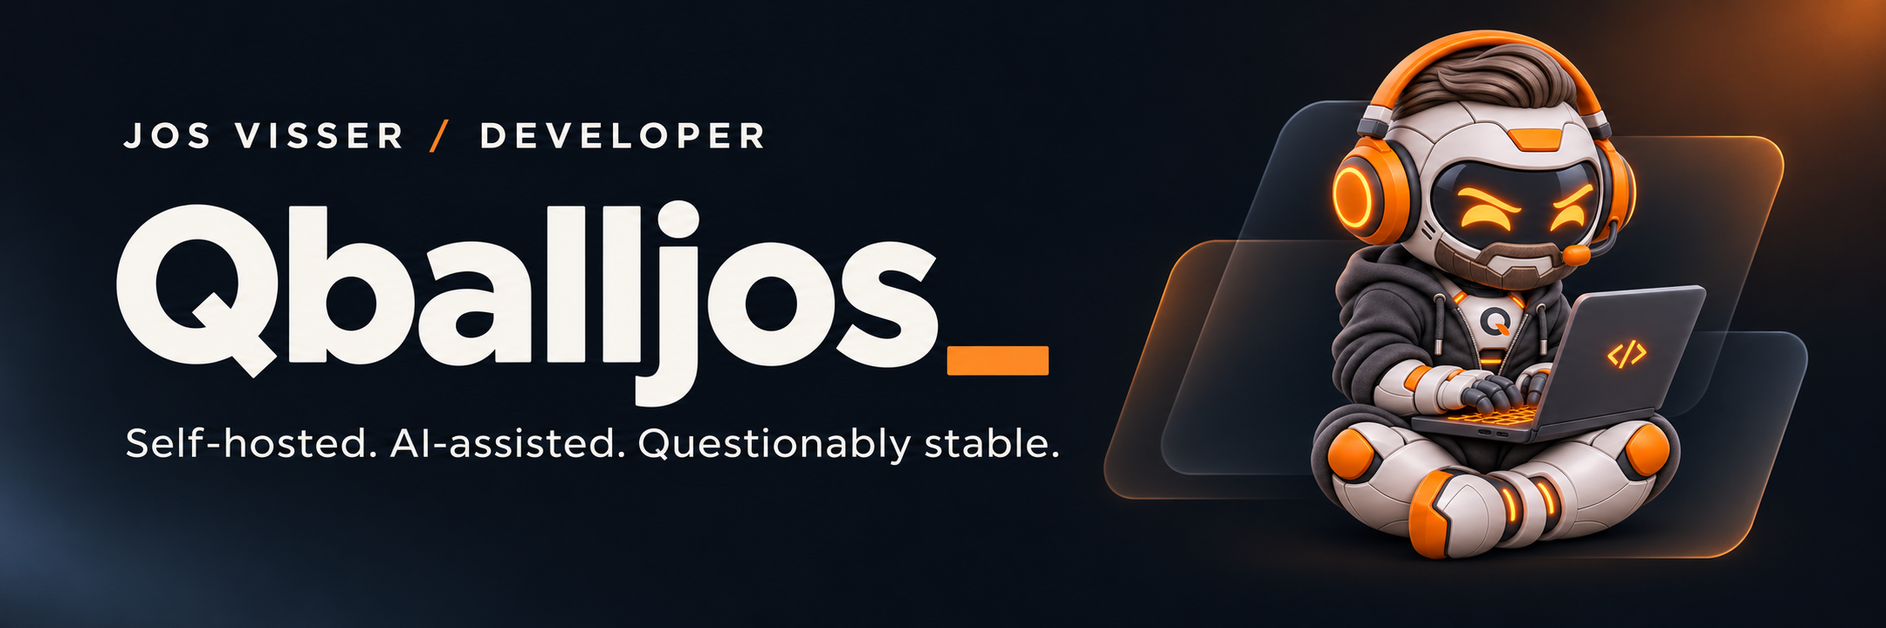
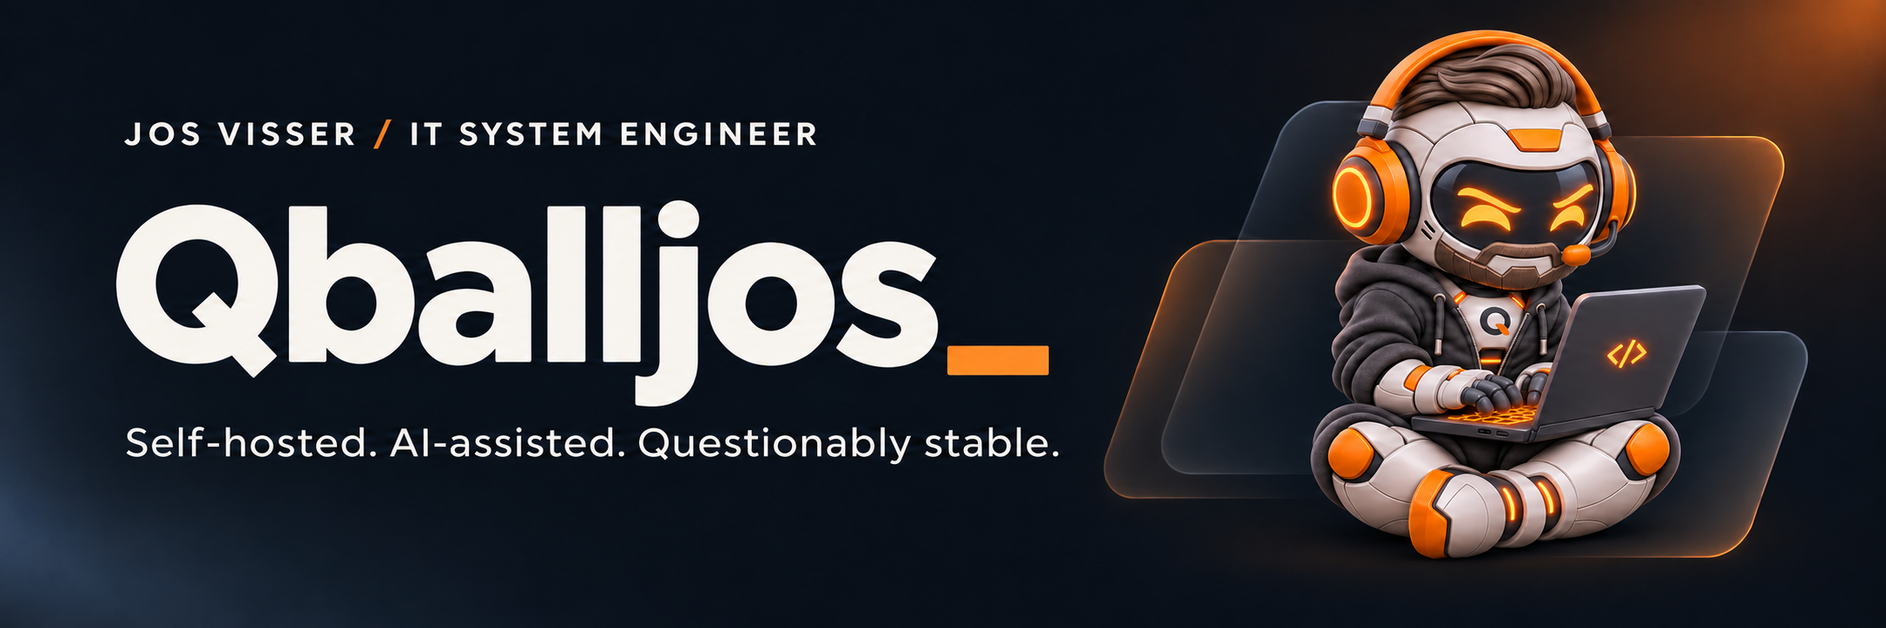
fix: identify Jos as IT System Engineer and hobby maker

diff --git a/cloudflare-pages/qballjos.html b/cloudflare-pages/qballjos.html
@@ -1,5 +1,5 @@
 <!doctype html>
-<html lang="nl"><head><meta charset="utf-8"><meta name="viewport" content="width=device-width,initial-scale=1"><meta name="theme-color" content="#0d1721"><meta name="description" content="Qballjos brand kit: mascot, logo's, kleuren en developer assets."><title>Qballjos — Brand Kit | Jos Visser ICT</title><link rel="icon" href="/assets/qballjos-icon.svg" type="image/svg+xml">
+<html lang="nl"><head><meta charset="utf-8"><meta name="viewport" content="width=device-width,initial-scale=1"><meta name="theme-color" content="#0d1721"><meta name="description" content="Qballjos brand kit: mascot, logo's, kleuren en bestanden voor mijn hobbyprojecten."><title>Qballjos — Brand Kit | Jos Visser ICT</title><link rel="icon" href="/assets/qballjos-icon.svg" type="image/svg+xml">
 <style>
 :root{--orange:#ea8b39;--bright:#ff831b;--dark:#0d1721;--slate:#344453;--white:#f5f5f5;--line:#718399;--panel:#111d2a}*{box-sizing:border-box}html{scroll-behavior:smooth}body{margin:0;color:var(--white);background:radial-gradient(ellipse at 72% 10%,#263849 0%,transparent 37%),linear-gradient(135deg,#0d1924,#0b141d 70%);font:15px/1.45 system-ui,-apple-system,Segoe UI,sans-serif}a{color:inherit}a:focus-visible,button:focus-visible{outline:3px solid #ff9c45;outline-offset:3px}.site-header{border-bottom:1px solid #526173;background:#0a131ddf}.nav-inner{max-width:1600px;margin:auto;min-height:65px;padding:10px 24px;display:flex;align-items:center;gap:22px;justify-content:space-between}.brand{display:flex;align-items:center;gap:15px;text-decoration:none;font-size:21px;font-weight:800;white-space:nowrap}.slashes{color:var(--bright);font-size:39px;font-weight:1000;letter-spacing:-12px;padding-right:12px;transform:skew(-12deg)}.brand small{font-size:17px;font-weight:450;border-left:1px solid #a3adba;padding-left:18px}.nav{display:flex;align-items:center;gap:clamp(10px,2vw,32px);flex-wrap:wrap}.nav a{text-decoration:none}.nav a:hover,.nav .active{color:#ff9a38}.nav .active{border:1px solid var(--bright);padding:5px 14px;border-radius:22px;background:#ff831b20}.repo{background:var(--bright);padding:9px 15px;border-radius:9px;text-decoration:none;font-weight:750;white-space:nowrap}.shell{max-width:1600px;margin:auto;padding:18px 22px 26px}.hero{min-height:225px;display:grid;grid-template-columns:minmax(0,1.65fr) minmax(300px,.95fr);gap:16px;align-items:center;margin-bottom:18px}.hero-left{display:flex;align-items:center;gap:clamp(15px,3vw,45px);min-width:0;position:relative}.hero-left:before{content:"";position:absolute;inset:-15px auto auto -23px;width:155px;height:120px;background:linear-gradient(120deg,var(--bright) 0 27%,transparent 27% 43%,#b55316 43% 57%,transparent 57%);opacity:.7;z-index:-1}.hero-mascot{width:clamp(165px,22vw,300px);flex-shrink:0;filter:drop-shadow(0 8px 15px #000a)}.hero-copy{border-left:3px solid #d8dce3;padding-left:25px;min-width:0}.hero h1{font-size:clamp(3.2rem,7.3vw,7.7rem);letter-spacing:-.065em;line-height:.95;margin:0 0 12px;font-weight:900;text-shadow:0 4px 8px #0009}.hero h1 span,.wordmark span{color:var(--bright)}.eyebrow{font-size:clamp(.65rem,1vw,1rem);font-weight:750;letter-spacing:.24em}.tagline{font-size:clamp(1rem,1.6vw,1.6rem);font-weight:800;color:var(--bright);margin:10px 0}.panel{border:1px solid var(--line);border-radius:15px;background:linear-gradient(120deg,#142230e8,#0b1722e8);box-shadow:inset 0 0 0 1px #ffffff0b;overflow:hidden}.panel h2{font-size:clamp(1.1rem,1.7vw,1.55rem);line-height:1.15;margin:0 0 12px;font-weight:850}.panel-body{padding:18px 22px}.about{border-left:7px solid var(--bright)}.about ul{padding:0;margin:8px 0 0;list-style:none}.about li{margin:6px 0}.about li:before{content:"✓";color:var(--bright);font-weight:900;margin-right:14px}.content-grid{display:grid;gap:15px;margin-bottom:15px}.two{grid-template-columns:1.3fr 1fr}.three{grid-template-columns:1.45fr .82fr .68fr}.bottom{grid-template-columns:1.1fr 1fr}.logos{display:grid;grid-template-columns:repeat(5,minmax(0,1fr));gap:12px;text-align:center}.logo-variant{display:flex;flex-direction:column;justify-content:end;align-items:center;min-width:0}.logo-variant .visual{height:132px;width:100%;display:grid;place-items:center}.logo-variant img{max-height:125px;max-width:100%;object-fit:contain}.logo-variant p{margin:6px 0 0;font-size:13px}.light-tile{background:#f5f5f5;border-radius:18px}.wordmark{font-size:clamp(1.1rem,2.2vw,2.8rem);font-weight:900;letter-spacing:-.06em;white-space:nowrap}.icon-tile{width:100px;height:100px;border-radius:20px;background:linear-gradient(135deg,#ffab32,#e86a13);display:grid;place-items:center}.icon-tile img{width:78px}.small-tile{width:85px;height:85px;border:1px solid #657689;border-radius:18px;display:grid;place-items:center}.small-tile img{width:67px}.mascot-layout{display:grid;grid-template-columns:1fr 1.3fr;gap:8px;align-items:center}.mascot-large{width:100%;max-height:210px;object-fit:contain;filter:drop-shadow(0 6px 8px #0009)}.sticker-grid{display:grid;grid-template-columns:repeat(3,1fr);gap:6px}.sticker{height:98px;display:grid;place-items:center;position:relative}.sticker img{width:90px;height:90px;object-fit:contain}.sticker:nth-child(2) img{transform:rotate(-10deg)}.sticker:nth-child(3) img{transform:rotate(12deg)}.sticker:nth-child(4) img{transform:scale(.85)}.sticker:nth-child(5) img{transform:rotate(8deg) scale(.85)}.sticker:nth-child(6) img{transform:scale(.8)}.sticker em{position:absolute;right:5px;top:0;font-style:normal;font-size:20px}.social-banner{min-height:143px;display:flex;align-items:center;gap:20px;padding:12px 25px;background:radial-gradient(circle at 90% 40%,#4d2a19,transparent 45%),linear-gradient(110deg,#0e1a25,#1d2c3c);border-top:1px solid #4a5d70}.social-banner img{width:120px}.social-banner .wordmark{font-size:clamp(2rem,4vw,4.2rem)}.social-banner small{letter-spacing:.18em;font-weight:700}.social-banner p{margin:7px 0}.social-banner .skills{font-size:12px;letter-spacing:normal}.tag-list{padding:0;list-style:none;margin:0}.tag-list li{padding:5px 0;font-size:14px}.tag-list li:before{content:">";color:var(--bright);font-weight:900;margin-right:15px}.tag-list li:first-child{color:var(--bright);font-weight:750}.swatches{display:grid;grid-template-columns:repeat(4,1fr);gap:9px}.swatch{text-align:center;font-size:12px}.swatch i{display:block;height:76px;border:1px solid #9baaba;border-radius:15px;margin-bottom:7px}.swatch code{font-size:11px}.applications{display:grid;grid-template-columns:repeat(4,1fr);gap:12px}.app-item{min-height:130px;border-radius:12px;background:radial-gradient(circle at 50% 80%,#334254,#111923 70%);display:flex;flex-direction:column;justify-content:center;align-items:center;text-align:center;padding:10px}.app-item img{width:85px;height:85px;object-fit:contain}.app-item .cap{width:100px;height:60px;border-radius:55px 55px 8px 8px;background:linear-gradient(#27303b,#0a111b);display:grid;place-items:center;box-shadow:0 6px 8px #0009}.app-item .cap img{width:55px;height:55px}.app-item .mug{width:80px;height:90px;border:6px solid #4e5964;border-radius:8px 8px 22px 22px;background:#080d12;display:grid;place-items:center}.app-item .mug img{width:65px;height:65px}.app-item strong{font-size:12px}.relation{display:flex;align-items:center;gap:15px;font-size:clamp(1.4rem,3vw,2.7rem);font-weight:850;border-bottom:1px solid #627487;padding-bottom:12px}.relation .brand-side{font-size:clamp(1rem,1.9vw,1.8rem)}.relation-desc{margin-top:13px;display:flex;justify-content:space-between;gap:15px;align-items:center}.relation-desc small{border-left:1px solid #627487;padding-left:14px;white-space:nowrap}.downloads{display:flex;flex-wrap:wrap;align-items:center;gap:10px;margin-top:20px}.btn{display:inline-block;text-decoration:none;border:1px solid #69798c;background:linear-gradient(#283646,#172331);padding:11px 17px;border-radius:9px;font-weight:650}.btn.primary{background:linear-gradient(135deg,#ff9c36,#ef7115);color:white;border-color:#ff8b2b}.footer-note{margin-left:auto;font-size:13px}.orange{color:var(--bright)}@media(max-width:1100px){.nav{gap:10px}.hero{grid-template-columns:1fr}.two,.three,.bottom{grid-template-columns:1fr}.hero-mascot{width:230px}.panel-body{padding:18px}.logos{gap:5px}}@media(max-width:620px){.shell{padding:12px}.nav-inner{padding:10px 12px;flex-wrap:wrap;gap:12px}.nav{order:3;width:100%}.brand{font-size:16px}.brand small{font-size:13px}.nav{font-size:13px}.hero-left{flex-direction:column;text-align:center;gap:12px}.hero-copy{border:0;padding:0}.hero h1{font-size:4rem}.hero-mascot{width:210px}.logos{grid-template-columns:repeat(2,1fr);gap:14px}.logo-variant .visual{height:120px}.mascot-layout{grid-template-columns:1fr}.mascot-large{max-height:180px}.swatches{grid-template-columns:repeat(2,1fr)}.applications{grid-template-columns:repeat(2,1fr)}.social-banner{padding:10px;gap:10px}.social-banner img{width:80px}.social-banner .wordmark{font-size:2rem}.social-banner small{font-size:9px}.relation-desc{display:block}.relation-desc small{display:block;margin-top:12px}.footer-note{margin-left:0}.repo{padding:6px 9px}}@media(prefers-reduced-motion:reduce){html{scroll-behavior:auto}}
 
@@ -8,9 +8,9 @@
 .banner-preview{display:block;border-radius:10px;overflow:hidden;border:1px solid #ffffff1b}.banner-preview img{display:block;width:100%;height:auto}.banner-actions{display:flex;align-items:center;justify-content:space-between;flex-wrap:wrap;gap:12px;margin-top:14px}.banner-actions>span{font-size:12px;color:#bdc9d7}.banner-actions .asset-download{margin-top:0}</style></head><body>
 <header class="site-header"><div class="nav-inner"><a class="brand" href="/"><span class="slashes">//</span> Jos Visser ICT <small>Brand Kit</small></a><nav class="nav" aria-label="Brand Kit navigatie"><a href="/">Overzicht</a><a href="/#logos">Logo's</a><a href="/#colors">Kleuren</a><a href="/#assets">Assets</a><a class="active" aria-current="page" href="/qballjos.html">Qballjos</a><a href="/#email">E-mail</a><a href="/#guidelines">Huisstijl</a></nav><a class="repo" href="https://github.com/Qballjos/Email_Signature_JosVisserICT">GitHub Repository ↗</a></div></header>
 <main class="shell">
-<section class="hero"><div class="hero-left"><img class="hero-mascot" src="/assets/qballbot-laptop.png" alt="QballBot programmeur in donkere hoodie, met oranje headset en laptop"><div class="hero-copy"><h1>Qballjos<span>_</span></h1><div class="eyebrow">DEVELOPER · SELF-HOSTING · OPEN SOURCE</div><p class="tagline">Self-hosted. AI-assisted. Questionably stable.</p></div></div><div class="panel about"><div class="panel-body"><h2>Over Qballjos</h2><p>Qballjos is mijn persoonlijke developer-identiteit voor self-hosting, Docker, AI-assisted coding en open-source projecten.</p><ul><li>Communitygedreven en open source</li><li>Experimenteel, praktisch en met humor</li><li>Gemaakt door Jos Visser ICT</li></ul></div></div></section>
+<section class="hero"><div class="hero-left"><img class="hero-mascot" src="/assets/qballbot-laptop.png" alt="QballBot in donkere hoodie, met oranje headset en laptop"><div class="hero-copy"><h1>Qballjos<span>_</span></h1><div class="eyebrow">IT SYSTEM ENGINEER · HOBBYPROJECTEN</div><p class="tagline">Self-hosted. AI-assisted. Questionably stable.</p></div></div><div class="panel about"><div class="panel-body"><h2>Over Qballjos</h2><p>Ik ben IT System Engineer. Onder de naam Qballjos maak ik als hobby projecten rond self-hosting, Docker, home automation en AI-assisted coding.</p><ul><li>Communitygedreven en open source</li><li>Experimenteel, praktisch en met humor</li><li>Gemaakt door Jos Visser ICT</li></ul></div></div></section>
 <div class="content-grid asset-sections"><section class="panel"><div class="panel-body"><h2>Logo varianten</h2><div class="logos"><div class="logo-variant"><div class="visual"><img src="/assets/qballbot-thumb.png" alt="Primair mascot logo op donkere achtergrond"></div><p>Primair logo<br>(donker)</p><a class="asset-download" href="/assets/qballbot-thumb.png" download aria-label="Download primair logo op donkere achtergrond als PNG"><span aria-hidden="true">↓</span> Download PNG</a></div><div class="logo-variant"><div class="visual light-tile"><img src="/assets/qballbot-thumb.png" alt="Primair mascot logo op lichte achtergrond"></div><p>Primair logo<br>(licht)</p><a class="asset-download" href="/assets/qballbot-thumb.png" download aria-label="Download primair logo op lichte achtergrond als PNG"><span aria-hidden="true">↓</span> Download PNG</a></div><div class="logo-variant"><div class="visual"><span class="wordmark">Qballjos<span>_</span></span></div><p>Logo zonder mascot<br>(woordmerk)</p><a class="asset-download" href="/assets/qballjos-wordmark.svg" download aria-label="Download Qballjos woordmerk als SVG"><span aria-hidden="true">↓</span> Download SVG</a></div><div class="logo-variant"><div class="visual"><div class="icon-tile"><img src="/assets/qballjos-icon.svg" alt="Qballjos app-icoon"></div></div><p>App-icoon<br>(vierkant)</p><a class="asset-download" href="/assets/qballjos-icon.svg" download aria-label="Download Qballjos app-icoon als SVG"><span aria-hidden="true">↓</span> Download SVG</a></div><div class="logo-variant"><div class="visual"><div class="small-tile"><img src="/assets/qballjos-icon.svg" alt="Qballjos favicon"></div></div><p>Favicon<br>(16–32 px)</p><a class="asset-download" href="/assets/qballjos-icon.svg" download aria-label="Download Qballjos favicon als SVG"><span aria-hidden="true">↓</span> Download SVG</a></div></div></div></section><section class="panel"><div class="panel-body"><div class="asset-section-heading"><h2>Mascot – QballBot</h2><span>8 poses · transparante PNG</span></div><div class="mascot-download-grid"><figure class="mascot-asset"><div class="mascot-preview"><img src="/assets/qballbot-laptop.png" alt="QballBot programmeert op zijn laptop" loading="lazy"></div><figcaption>Laptop</figcaption><a class="asset-download" href="/assets/qballbot-laptop.png" download aria-label="Download QballBot Laptop als PNG"><span aria-hidden="true">↓</span> Download PNG</a></figure><figure class="mascot-asset"><div class="mascot-preview"><img src="/assets/qballbot-thumb.png" alt="QballBot met opgestoken duim" loading="lazy"></div><figcaption>Duim omhoog</figcaption><a class="asset-download" href="/assets/qballbot-thumb.png" download aria-label="Download QballBot Duim omhoog als PNG"><span aria-hidden="true">↓</span> Download PNG</a></figure><figure class="mascot-asset"><div class="mascot-preview"><img src="/assets/qballbot-wave.png" alt="QballBot zwaait" loading="lazy"></div><figcaption>Zwaaien</figcaption><a class="asset-download" href="/assets/qballbot-wave.png" download aria-label="Download QballBot Zwaaien als PNG"><span aria-hidden="true">↓</span> Download PNG</a></figure><figure class="mascot-asset"><div class="mascot-preview"><img src="/assets/qballbot-heart.png" alt="QballBot houdt een oranje hart vast" loading="lazy"></div><figcaption>Hart</figcaption><a class="asset-download" href="/assets/qballbot-heart.png" download aria-label="Download QballBot Hart als PNG"><span aria-hidden="true">↓</span> Download PNG</a></figure><figure class="mascot-asset"><div class="mascot-preview"><img src="/assets/qballbot-cool.png" alt="QballBot met zonnebril" loading="lazy"></div><figcaption>Cool</figcaption><a class="asset-download" href="/assets/qballbot-cool.png" download aria-label="Download QballBot Cool als PNG"><span aria-hidden="true">↓</span> Download PNG</a></figure><figure class="mascot-asset"><div class="mascot-preview"><img src="/assets/qballbot-question.png" alt="QballBot denkt na bij zijn tablet" loading="lazy"></div><figcaption>Debuggen</figcaption><a class="asset-download" href="/assets/qballbot-question.png" download aria-label="Download QballBot Debuggen als PNG"><span aria-hidden="true">↓</span> Download PNG</a></figure><figure class="mascot-asset"><div class="mascot-preview"><img src="/assets/qballbot-sleep.png" alt="QballBot slaapt met zijn laptop" loading="lazy"></div><figcaption>Slaap</figcaption><a class="asset-download" href="/assets/qballbot-sleep.png" download aria-label="Download QballBot Slaap als PNG"><span aria-hidden="true">↓</span> Download PNG</a></figure><figure class="mascot-asset"><div class="mascot-preview"><img src="/assets/qballbot-code.png" alt="QballBot toont code op zijn tablet" loading="lazy"></div><figcaption>Code</figcaption><a class="asset-download" href="/assets/qballbot-code.png" download aria-label="Download QballBot Code als PNG"><span aria-hidden="true">↓</span> Download PNG</a></figure></div></div></section></div>
-<div class="content-grid three"><section class="panel"><div class="panel-body"><h2>GitHub / social banner</h2><a class="banner-preview" href="/assets/qballjos-banner.png" aria-label="Bekijk de Qballjos GitHub-banner op volledig formaat"><img src="/assets/qballjos-banner.png" alt="Qballjos GitHub-banner met QballBot achter zijn laptop en de tekst Self-hosted. AI-assisted. Questionably stable." width="2172" height="724" loading="lazy"></a><div class="banner-actions"><span>2172 × 724 px · PNG</span><a class="asset-download" href="/assets/qballjos-banner.png" download aria-label="Download Qballjos GitHub-banner als PNG"><span aria-hidden="true">↓</span> Download banner</a></div></div></section><section class="panel"><div class="panel-body"><h2>Tagline variaties</h2><ul class="tag-list"><li>Self-hosted. AI-assisted. Questionably stable.</li><li>I build tools, break things and call it development.</li><li>Powered by Docker, caffeine and curiosity.</li><li>Making self-hosting easier, one container at a time.</li></ul></div></section><section class="panel"><div class="panel-body"><h2>Kleurenpalet <small style="font-weight:400">(Qballjos)</small></h2><div class="swatches"><div class="swatch"><i style="background:#ea8b39"></i>Brand Orange<br><code>#EA8B39</code></div><div class="swatch"><i style="background:#151a21"></i>Dark<br><code>#151A21</code></div><div class="swatch"><i style="background:#344453"></i>Slate<br><code>#344453</code></div><div class="swatch"><i style="background:#f5f5f5"></i>Off White<br><code>#F5F5F5</code></div></div></div></section></div>
+<div class="content-grid three"><section class="panel"><div class="panel-body"><h2>GitHub / social banner</h2><a class="banner-preview" href="/assets/qballjos-banner.png" aria-label="Bekijk de Qballjos GitHub-banner op volledig formaat"><img src="/assets/qballjos-banner.png" alt="Qballjos GitHub-banner voor Jos Visser, IT System Engineer, met QballBot achter zijn laptop en de tekst Self-hosted. AI-assisted. Questionably stable." width="2172" height="724" loading="lazy"></a><div class="banner-actions"><span>2172 × 724 px · PNG</span><a class="asset-download" href="/assets/qballjos-banner.png" download aria-label="Download Qballjos GitHub-banner als PNG"><span aria-hidden="true">↓</span> Download banner</a></div></div></section><section class="panel"><div class="panel-body"><h2>Tagline variaties</h2><ul class="tag-list"><li>Self-hosted. AI-assisted. Questionably stable.</li><li>I build tools, break things and call it development.</li><li>Powered by Docker, caffeine and curiosity.</li><li>Making self-hosting easier, one container at a time.</li></ul></div></section><section class="panel"><div class="panel-body"><h2>Kleurenpalet <small style="font-weight:400">(Qballjos)</small></h2><div class="swatches"><div class="swatch"><i style="background:#ea8b39"></i>Brand Orange<br><code>#EA8B39</code></div><div class="swatch"><i style="background:#151a21"></i>Dark<br><code>#151A21</code></div><div class="swatch"><i style="background:#344453"></i>Slate<br><code>#344453</code></div><div class="swatch"><i style="background:#f5f5f5"></i>Off White<br><code>#F5F5F5</code></div></div></div></section></div>
 <div class="content-grid"><section class="panel"><div class="panel-body"><h2>Brandrelatie</h2><div class="relation"><span>Qballjos<span class="orange">_</span></span><span>↔</span><span class="brand-side"><span class="orange">//</span> Jos Visser ICT</span></div><div class="relation-desc"><span>Qballjos is een zelfstandig, persoonlijk merk met een duidelijke koppeling naar Jos Visser ICT.</span><small><span class="orange">//</span> A standalone brand<br>by Jos Visser ICT</small></div></div></section></div>
 <footer class="asset-footer"><nav aria-label="Brandbronnen"><a href="https://github.com/Qballjos/Email_Signature_JosVisserICT/tree/main/cloudflare-pages">Web assets ↗</a><a href="https://github.com/Qballjos/Email_Signature_JosVisserICT/blob/main/docs/qballjos-brand.md">Brand guidelines ↗</a></nav><span>Qballjos Brand Kit · static.josvisserict.nl</span></footer>
 </main></body></html>

diff --git a/cloudflare-pages/index.html b/cloudflare-pages/index.html
@@ -700,7 +700,7 @@ button.copy-btn,body.light-mode button.copy-btn{width:36px;min-width:36px;min-he
 
 
     <div class="container">
-<header class="concept-nav"><a class="wordmark" href="#"><b>//</b> Jos Visser ICT</a><nav aria-label="Hoofdnavigatie"><a href="#logos">Logo’s</a><a href="#icons">Iconen</a><a href="#signature">Handtekening</a><a href="#pages">Documenten</a><a href="https://static.josvisserict.nl/qballjos">Qballjos ↗</a></nav></header><div class="new-header"><div><div class="eyebrow">MIJN VISUELE IDENTITEIT</div><h1>Jos Visser ICT.<br>Brand Kit.</h1><p>Hier vind je de logo’s, contacticonen en e-mailhandtekening van Jos Visser ICT. Mijn huisstijlbestanden, bij elkaar op één plek.</p><div class="hero-actions"><a class="primary-action" href="#logos">Logo’s & bestanden ↘</a><a href="#signature">E-mailhandtekening →</a></div></div><div class="hero-visual"><img src="/assets/josvisser-logo-full-colour.png" alt="Jos Visser ICT"><small>JOS VISSER ICT / BRAND KIT</small></div></div><!-- Logo's & Documenten -->
+<header class="concept-nav"><a class="wordmark" href="#"><b>//</b> Jos Visser ICT</a><nav aria-label="Hoofdnavigatie"><a href="#logos">Logo’s</a><a href="#icons">Iconen</a><a href="#signature">Handtekening</a><a href="#pages">Documenten</a><a href="https://static.josvisserict.nl/qballjos">Qballjos ↗</a></nav></header><div class="new-header"><div><div class="eyebrow">MIJN VISUELE IDENTITEIT</div><h1>Jos Visser ICT.<br>Brand Kit.</h1><p>Hier vind je de logo’s, contacticonen en e-mailhandtekening van Jos Visser ICT. Mijn huisstijlbestanden, bij elkaar op één plek. Ik ben IT System Engineer en maak daarnaast als hobby projecten onder de naam Qballjos.</p><div class="hero-actions"><a class="primary-action" href="#logos">Logo’s & bestanden ↘</a><a href="#signature">E-mailhandtekening →</a></div></div><div class="hero-visual"><img src="/assets/josvisser-logo-full-colour.png" alt="Jos Visser ICT"><small>JOS VISSER ICT / BRAND KIT</small></div></div><!-- Logo's & Documenten -->
         <div class="section" id="logos">
             <h2>Logo's & Documenten</h2>
             <div class="grid-compact">
@@ -833,7 +833,7 @@ button.copy-btn,body.light-mode button.copy-btn{width:36px;min-width:36px;min-he
                         </svg>
                     </div>
                     <h4>GitHub</h4>
-                    <p>Developer</p>
+                    <p>Code &amp; projecten</p>
                     <button class="btn" onclick="event.stopPropagation(); downloadSVG('github')" aria-label="Download SVG-icoon">Download SVG <span aria-hidden="true">↓</span></button>
                 </div>
                 

diff --git a/docs/qballbot-generation.md b/docs/qballbot-generation.md
@@ -1,40 +1,42 @@
 # QballBot generation prompts
 
+Current identity: Jos Visser is an IT System Engineer who makes these projects as a hobby. The character represents his hobby work.
+
 Generated with the built-in image generation tool and transparent background enabled. The supplied portrait was a private reference for the base character; it is not included in this repository.
 
 ## Character direction
 
 Personalize QballBot with a charcoal hoodie, swept-back brown helmet crest and sculpted beard trim based on visible styling in the supplied portrait. Retain the white/slate robot armor, orange headset and microphone, orange eyes and dark visor. The base pose gives a relaxed thumbs up, with the other hand in the hoodie pocket.
 
-## Final programmer pose prompts
+## Pose prompts for future regeneration
 
-Each prompt uses qballbot-thumb.png as its character reference.
+Each prompt uses qballbot-thumb.png as its character reference. The wording below has been revised to reflect the correct IT System Engineer identity for future regeneration.
 
 ### wave
 
-Use case: identity-preserve. Create ONE separate transparent QballBot PROGRAMMER mascot asset. The reference is the exact character identity: preserve white robot helmet, swept-back brown hair-like helmet crest, sculpted brown beard and moustache trim, dark visor, orange glowing eyes, orange headset and boom microphone, dark charcoal fabric zip hoodie over white/slate armor, Q chest emblem and orange accents. This is a playful slightly stubborn programmer and self-hosting developer, not an inventor. No tools, goggles or lab coat. Keep same polished detailed 3D rendering and proportions. New pose: standing and waving hello with an open robotic hand. Entire character and props fully inside frame with 8 percent transparent margins. True alpha transparency, no floor, no background, no watermark, no captions. Do not remove hoodie, hair or beard.
+Use case: identity-preserve. Create ONE separate transparent QballBot PROGRAMMER mascot asset. The reference is the exact character identity: preserve white robot helmet, swept-back brown hair-like helmet crest, sculpted brown beard and moustache trim, dark visor, orange glowing eyes, orange headset and boom microphone, dark charcoal fabric zip hoodie over white/slate armor, Q chest emblem and orange accents. This is a playful slightly stubborn IT System Engineer who codes and self-hosts as a hobby, not an inventor. No tools, goggles or lab coat. Keep same polished detailed 3D rendering and proportions. New pose: standing and waving hello with an open robotic hand. Entire character and props fully inside frame with 8 percent transparent margins. True alpha transparency, no floor, no background, no watermark, no captions. Do not remove hoodie, hair or beard.
 
 ### heart
 
-Use case: identity-preserve. Create ONE separate transparent QballBot PROGRAMMER mascot asset. The reference is the exact character identity: preserve white robot helmet, swept-back brown hair-like helmet crest, sculpted brown beard and moustache trim, dark visor, orange glowing eyes, orange headset and boom microphone, dark charcoal fabric zip hoodie over white/slate armor, Q chest emblem and orange accents. This is a playful slightly stubborn programmer and self-hosting developer, not an inventor. No tools, goggles or lab coat. Keep same polished detailed 3D rendering and proportions. New pose: standing holding a glowing orange heart with both hands. Entire character and props fully inside frame with 8 percent transparent margins. True alpha transparency, no floor, no background, no watermark, no captions. Do not remove hoodie, hair or beard.
+Use case: identity-preserve. Create ONE separate transparent QballBot PROGRAMMER mascot asset. The reference is the exact character identity: preserve white robot helmet, swept-back brown hair-like helmet crest, sculpted brown beard and moustache trim, dark visor, orange glowing eyes, orange headset and boom microphone, dark charcoal fabric zip hoodie over white/slate armor, Q chest emblem and orange accents. This is a playful slightly stubborn IT System Engineer who codes and self-hosts as a hobby, not an inventor. No tools, goggles or lab coat. Keep same polished detailed 3D rendering and proportions. New pose: standing holding a glowing orange heart with both hands. Entire character and props fully inside frame with 8 percent transparent margins. True alpha transparency, no floor, no background, no watermark, no captions. Do not remove hoodie, hair or beard.
 
 ### cool
 
-Use case: identity-preserve. Create ONE separate transparent QballBot PROGRAMMER mascot asset. The reference is the exact character identity: preserve white robot helmet, swept-back brown hair-like helmet crest, sculpted brown beard and moustache trim, dark visor, orange glowing eyes, orange headset and boom microphone, dark charcoal fabric zip hoodie over white/slate armor, Q chest emblem and orange accents. This is a playful slightly stubborn programmer and self-hosting developer, not an inventor. No tools, goggles or lab coat. Keep same polished detailed 3D rendering and proportions. New pose: standing confidently with crossed arms, wearing dark sunglasses over the visor. Entire character and props fully inside frame with 8 percent transparent margins. True alpha transparency, no floor, no background, no watermark, no captions. Do not remove hoodie, hair or beard.
+Use case: identity-preserve. Create ONE separate transparent QballBot PROGRAMMER mascot asset. The reference is the exact character identity: preserve white robot helmet, swept-back brown hair-like helmet crest, sculpted brown beard and moustache trim, dark visor, orange glowing eyes, orange headset and boom microphone, dark charcoal fabric zip hoodie over white/slate armor, Q chest emblem and orange accents. This is a playful slightly stubborn IT System Engineer who codes and self-hosts as a hobby, not an inventor. No tools, goggles or lab coat. Keep same polished detailed 3D rendering and proportions. New pose: standing confidently with crossed arms, wearing dark sunglasses over the visor. Entire character and props fully inside frame with 8 percent transparent margins. True alpha transparency, no floor, no background, no watermark, no captions. Do not remove hoodie, hair or beard.
 
 ### question
 
-Use case: identity-preserve. Create ONE separate transparent QballBot PROGRAMMER mascot asset. The reference is the exact character identity: preserve white robot helmet, swept-back brown hair-like helmet crest, sculpted brown beard and moustache trim, dark visor, orange glowing eyes, orange headset and boom microphone, dark charcoal fabric zip hoodie over white/slate armor, Q chest emblem and orange accents. This is a playful slightly stubborn programmer and self-hosting developer, not an inventor. No tools, goggles or lab coat. Keep same polished detailed 3D rendering and proportions. New pose: debugging thoughtfully, holding a small tablet with orange code brackets in one hand, other hand on chin. Entire character and props fully inside frame with 8 percent transparent margins. True alpha transparency, no floor, no background, no watermark, no captions. Do not remove hoodie, hair or beard.
+Use case: identity-preserve. Create ONE separate transparent QballBot PROGRAMMER mascot asset. The reference is the exact character identity: preserve white robot helmet, swept-back brown hair-like helmet crest, sculpted brown beard and moustache trim, dark visor, orange glowing eyes, orange headset and boom microphone, dark charcoal fabric zip hoodie over white/slate armor, Q chest emblem and orange accents. This is a playful slightly stubborn IT System Engineer who codes and self-hosts as a hobby, not an inventor. No tools, goggles or lab coat. Keep same polished detailed 3D rendering and proportions. New pose: debugging thoughtfully, holding a small tablet with orange code brackets in one hand, other hand on chin. Entire character and props fully inside frame with 8 percent transparent margins. True alpha transparency, no floor, no background, no watermark, no captions. Do not remove hoodie, hair or beard.
 
 ### sleep
 
-Use case: identity-preserve. Create ONE separate transparent QballBot PROGRAMMER mascot asset. The reference is the exact character identity: preserve white robot helmet, swept-back brown hair-like helmet crest, sculpted brown beard and moustache trim, dark visor, orange glowing eyes, orange headset and boom microphone, dark charcoal fabric zip hoodie over white/slate armor, Q chest emblem and orange accents. This is a playful slightly stubborn programmer and self-hosting developer, not an inventor. No tools, goggles or lab coat. Keep same polished detailed 3D rendering and proportions. New pose: sitting cross-legged asleep, eyes softly closed, a closed laptop resting on lap. Entire character and props fully inside frame with 8 percent transparent margins. True alpha transparency, no floor, no background, no watermark, no captions. Do not remove hoodie, hair or beard.
+Use case: identity-preserve. Create ONE separate transparent QballBot PROGRAMMER mascot asset. The reference is the exact character identity: preserve white robot helmet, swept-back brown hair-like helmet crest, sculpted brown beard and moustache trim, dark visor, orange glowing eyes, orange headset and boom microphone, dark charcoal fabric zip hoodie over white/slate armor, Q chest emblem and orange accents. This is a playful slightly stubborn IT System Engineer who codes and self-hosts as a hobby, not an inventor. No tools, goggles or lab coat. Keep same polished detailed 3D rendering and proportions. New pose: sitting cross-legged asleep, eyes softly closed, a closed laptop resting on lap. Entire character and props fully inside frame with 8 percent transparent margins. True alpha transparency, no floor, no background, no watermark, no captions. Do not remove hoodie, hair or beard.
 
 ### code
 
-Use case: identity-preserve. Create ONE separate transparent QballBot PROGRAMMER mascot asset. The reference is the exact character identity: preserve white robot helmet, swept-back brown hair-like helmet crest, sculpted brown beard and moustache trim, dark visor, orange glowing eyes, orange headset and boom microphone, dark charcoal fabric zip hoodie over white/slate armor, Q chest emblem and orange accents. This is a playful slightly stubborn programmer and self-hosting developer, not an inventor. No tools, goggles or lab coat. Keep same polished detailed 3D rendering and proportions. New pose: standing presenting a dark tablet with clearly visible orange </> code symbol, mischievous confident eyes. Entire character and props fully inside frame with 8 percent transparent margins. True alpha transparency, no floor, no background, no watermark, no captions. Do not remove hoodie, hair or beard.
+Use case: identity-preserve. Create ONE separate transparent QballBot PROGRAMMER mascot asset. The reference is the exact character identity: preserve white robot helmet, swept-back brown hair-like helmet crest, sculpted brown beard and moustache trim, dark visor, orange glowing eyes, orange headset and boom microphone, dark charcoal fabric zip hoodie over white/slate armor, Q chest emblem and orange accents. This is a playful slightly stubborn IT System Engineer who codes and self-hosts as a hobby, not an inventor. No tools, goggles or lab coat. Keep same polished detailed 3D rendering and proportions. New pose: standing presenting a dark tablet with clearly visible orange </> code symbol, mischievous confident eyes. Entire character and props fully inside frame with 8 percent transparent margins. True alpha transparency, no floor, no background, no watermark, no captions. Do not remove hoodie, hair or beard.
 
 ### laptop
 
-Use case: identity-preserve. Create ONE separate transparent QballBot PROGRAMMER mascot asset. The reference is the exact character identity: preserve white robot helmet, swept-back brown hair-like helmet crest, sculpted brown beard and moustache trim, dark visor, orange glowing eyes, orange headset and boom microphone, dark charcoal fabric zip hoodie over white/slate armor, Q chest emblem and orange accents. This is a playful slightly stubborn programmer and self-hosting developer, not an inventor. No tools, goggles or lab coat. Keep same polished detailed 3D rendering and proportions. New pose: seated cross-legged actively typing on an open dark grey laptop with a small orange code bracket emblem, looking at the screen with focused playful eyes. Entire character and props fully inside frame with 8 percent transparent margins. True alpha transparency, no floor, no background, no watermark, no captions. Do not remove hoodie, hair or beard.
+Use case: identity-preserve. Create ONE separate transparent QballBot PROGRAMMER mascot asset. The reference is the exact character identity: preserve white robot helmet, swept-back brown hair-like helmet crest, sculpted brown beard and moustache trim, dark visor, orange glowing eyes, orange headset and boom microphone, dark charcoal fabric zip hoodie over white/slate armor, Q chest emblem and orange accents. This is a playful slightly stubborn IT System Engineer who codes and self-hosts as a hobby, not an inventor. No tools, goggles or lab coat. Keep same polished detailed 3D rendering and proportions. New pose: seated cross-legged actively typing on an open dark grey laptop with a small orange code bracket emblem, looking at the screen with focused playful eyes. Entire character and props fully inside frame with 8 percent transparent margins. True alpha transparency, no floor, no background, no watermark, no captions. Do not remove hoodie, hair or beard.
 

diff --git a/docs/qballjos-brand.md b/docs/qballjos-brand.md
@@ -1,6 +1,6 @@
-# Qballjos developer brand
+# Qballjos — IT System Engineer & hobby projects
 
-Personal developer brand within Jos Visser ICT, hosted by the existing Cloudflare Pages static site.
+Jos Visser is an IT System Engineer. Qballjos is his personal identity for hobby projects around self-hosting, Docker, home automation and AI-assisted coding, alongside Jos Visser ICT.
 
 ## Page and assets
 
@@ -20,7 +20,7 @@ The eight PNGs are detailed AI-generated raster illustrations with genuine alpha
 
 ## Character direction
 
-QballBot is a playful, slightly stubborn programmer and self-hosting developer. His charcoal zip hoodie, swept-back brown helmet crest and sculpted beard trim personalize the original white/slate robot and orange headset. His dark visor and warm orange eyes keep him recognizably robotic. The laptop and code tablet emphasize programming rather than an inventor theme.
+QballBot represents an IT System Engineer who enjoys self-hosting and coding as a hobby. His charcoal zip hoodie, swept-back brown helmet crest and sculpted beard trim personalize the original white/slate robot and orange headset. His dark visor and warm orange eyes keep him recognizably robotic. The laptop and code tablet represent his hobby projects; they do not imply that his professional role is a software developer.
 
 The supplied portrait was used as a private visual reference; it is not distributed with the public brand assets. Generated poses can have small variations in detailing.
 
